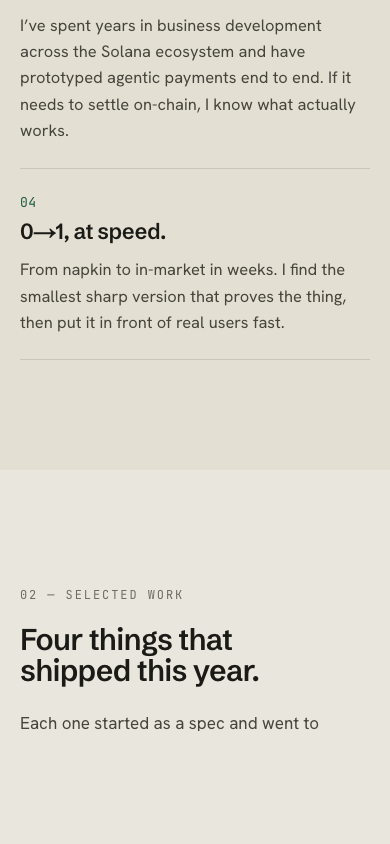
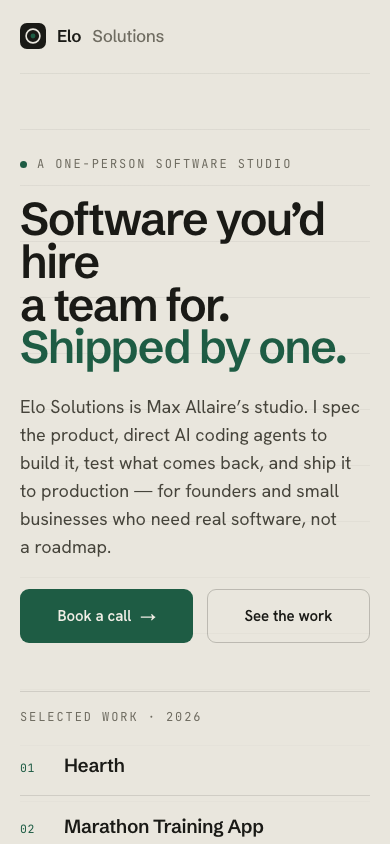
docs: record deploy decisions and include latest content
Captures the A5 outcomes (public repo, Vercel project, domain attach
via single-argument CLI form, www redirect) in docs/DECISIONS.md and
carries any content or screenshot updates the other streams made since
the previous commit. Pushing this also exercises the GitHub → Vercel
auto-deploy.

diff --git a/docs/DECISIONS.md b/docs/DECISIONS.md
@@ -42,3 +42,11 @@ Choices made without asking, in the order they came up. Plain language.
 - **Copy I wrote (not the content stream):** the page titles ("Priors, written down." / "Built to find out." / "Direct the work. Judge the outcome."), the three door-card blurbs on the home page, the section intros. All stay inside the BD-operator positioning; easy to change in the page files if Max prefers different lines.
 - **Extra routes:** a styled 404 page and `sitemap.xml` built from the content loaders.
 - **Second content trim: `content/projects/x402-verifier.json` `oneLiner` was 145 characters** ("An x402 facilitator prototype with an LLM-as-judge endpoint for work quality…" → "x402 facilitator prototype with an LLM-as-judge work-quality endpoint…", 137). Same 140-limit issue as fieldnotes; flagged for the content stream.
+
+## Task A5 — deploy
+
+- **GitHub repo `ClawdGItMan/maxallaire.com` is public** and includes `docs/` (the sprint plan, spec, status and this log). They contain no secrets (checked: only `.env.example` is tracked; a grep for key patterns hits only the plan's own description of that grep), but they are internal planning notes now visible to anyone. If Max would rather keep them private, move `docs/` out of the repo; nothing in the site depends on it.
+- **Vercel project `maxallaire-com`** on team `maxallaire-1603s-projects`, Node 24, Next.js preset. `vercel link` connected the GitHub repo automatically, so `vercel git connect` was a no-op; pushes to `main` redeploy production.
+- **Domain attached with the single-argument form** (`vercel domains add maxallaire.com` inside the linked project). The two-argument form in the plan is rejected by the current CLI. Nameservers were already on Vercel DNS, so HTTPS was live within about a minute of attaching.
+- **`www.maxallaire.com` added too** so the www form redirects to the apex instead of failing.
+- **The `.vercel/` link directory stays untracked** (already in `.gitignore`).

diff --git a/docs/STATUS.md b/docs/STATUS.md
@@ -8,10 +8,16 @@
 | D Product repos | repos-product | done | marathon, personal-os, dart-tracker, project-momentum, glp1-tracker, james-bond-game, agent-ops-wireframe public; geowatch + ETFScreener READMEs fixed. crypto-leads stays PRIVATE: hardcoded Supabase secret in history; that project no longer resolves (dead key), and leads-crm is its public successor |
 | E1 Personal OS workup | personal-os-workup | done | PR #14 on personal-os with docs/DESIGN-WORKUP.md (3,000 words, Mermaid data flow); 9 sample-data screenshots in public/screenshots/personal-os/ |
 | E2 Elo redo | elo-redo | done | Copy rewritten in Max voice, founder/email/domain fixed, hero + work refreshed, repo public, live at elo-solutions.vercel.app. elosolutions.org waits on Max changing A records at Squarespace to 76.76.21.21 |
-| F Screenshots | screenshots | running | — |
+| F Screenshots | screenshots | done | 78 PNGs across 16 slugs, desktop+mobile for each, no placeholders. Issues: geowatch map shows "API KEY REQUIRED" (missing CARTO key on Vercel); x402 dashboard fails to start from repo (packages/shared .js→.ts import resolution) |
 | G Max control | orchestrator | in progress | Telegram allowlisted; checklist artifact pending |
 
 Launched 2026-09-09 ~15:15 ET.
 
 ## Max inputs received
 - 2026-09-09 15:02 ET via checklist: "I ended at Wormhole" (end month pending)
+
+## Follow-ups (post-launch)
+- geowatch: add CARTO_API_KEY env on Vercel or swap basemap; screenshots show watermark.
+- x402-verifier-facilitator: fix packages/shared import extensions so `pnpm --filter dashboard dev` runs from a fresh clone.
+- proof-market-maker: AWS identifiers remain in git history (not credentials).
+- 2026-09-09 ~15:05 ET (recorded in memory by another session): left Wormhole Mar 2026 — awaiting explicit confirmation in checklist

diff --git a/content/resume.md b/content/resume.md
@@ -7,7 +7,7 @@ I research where crypto and AI meet, then build prototypes with AI tooling to fi
 
 ## Experience
 
-**Wormhole Foundation** — BD Associate / DeFi Lead · Jul 2025 – 2026
+**Wormhole Foundation** — BD Associate / DeFi Lead · Jul 2025 – Mar 2026
 Owned DeFi partnerships for a cross-chain messaging protocol: sourced and qualified protocol integrations, structured partnership proposals, and ran the pipeline from first call to live integration. Built the internal lead-generation and CRM tooling the team used to track it.
 
 **AgriDex** — Partnerships & Growth Manager · Aug 2024 – Jun 2025
